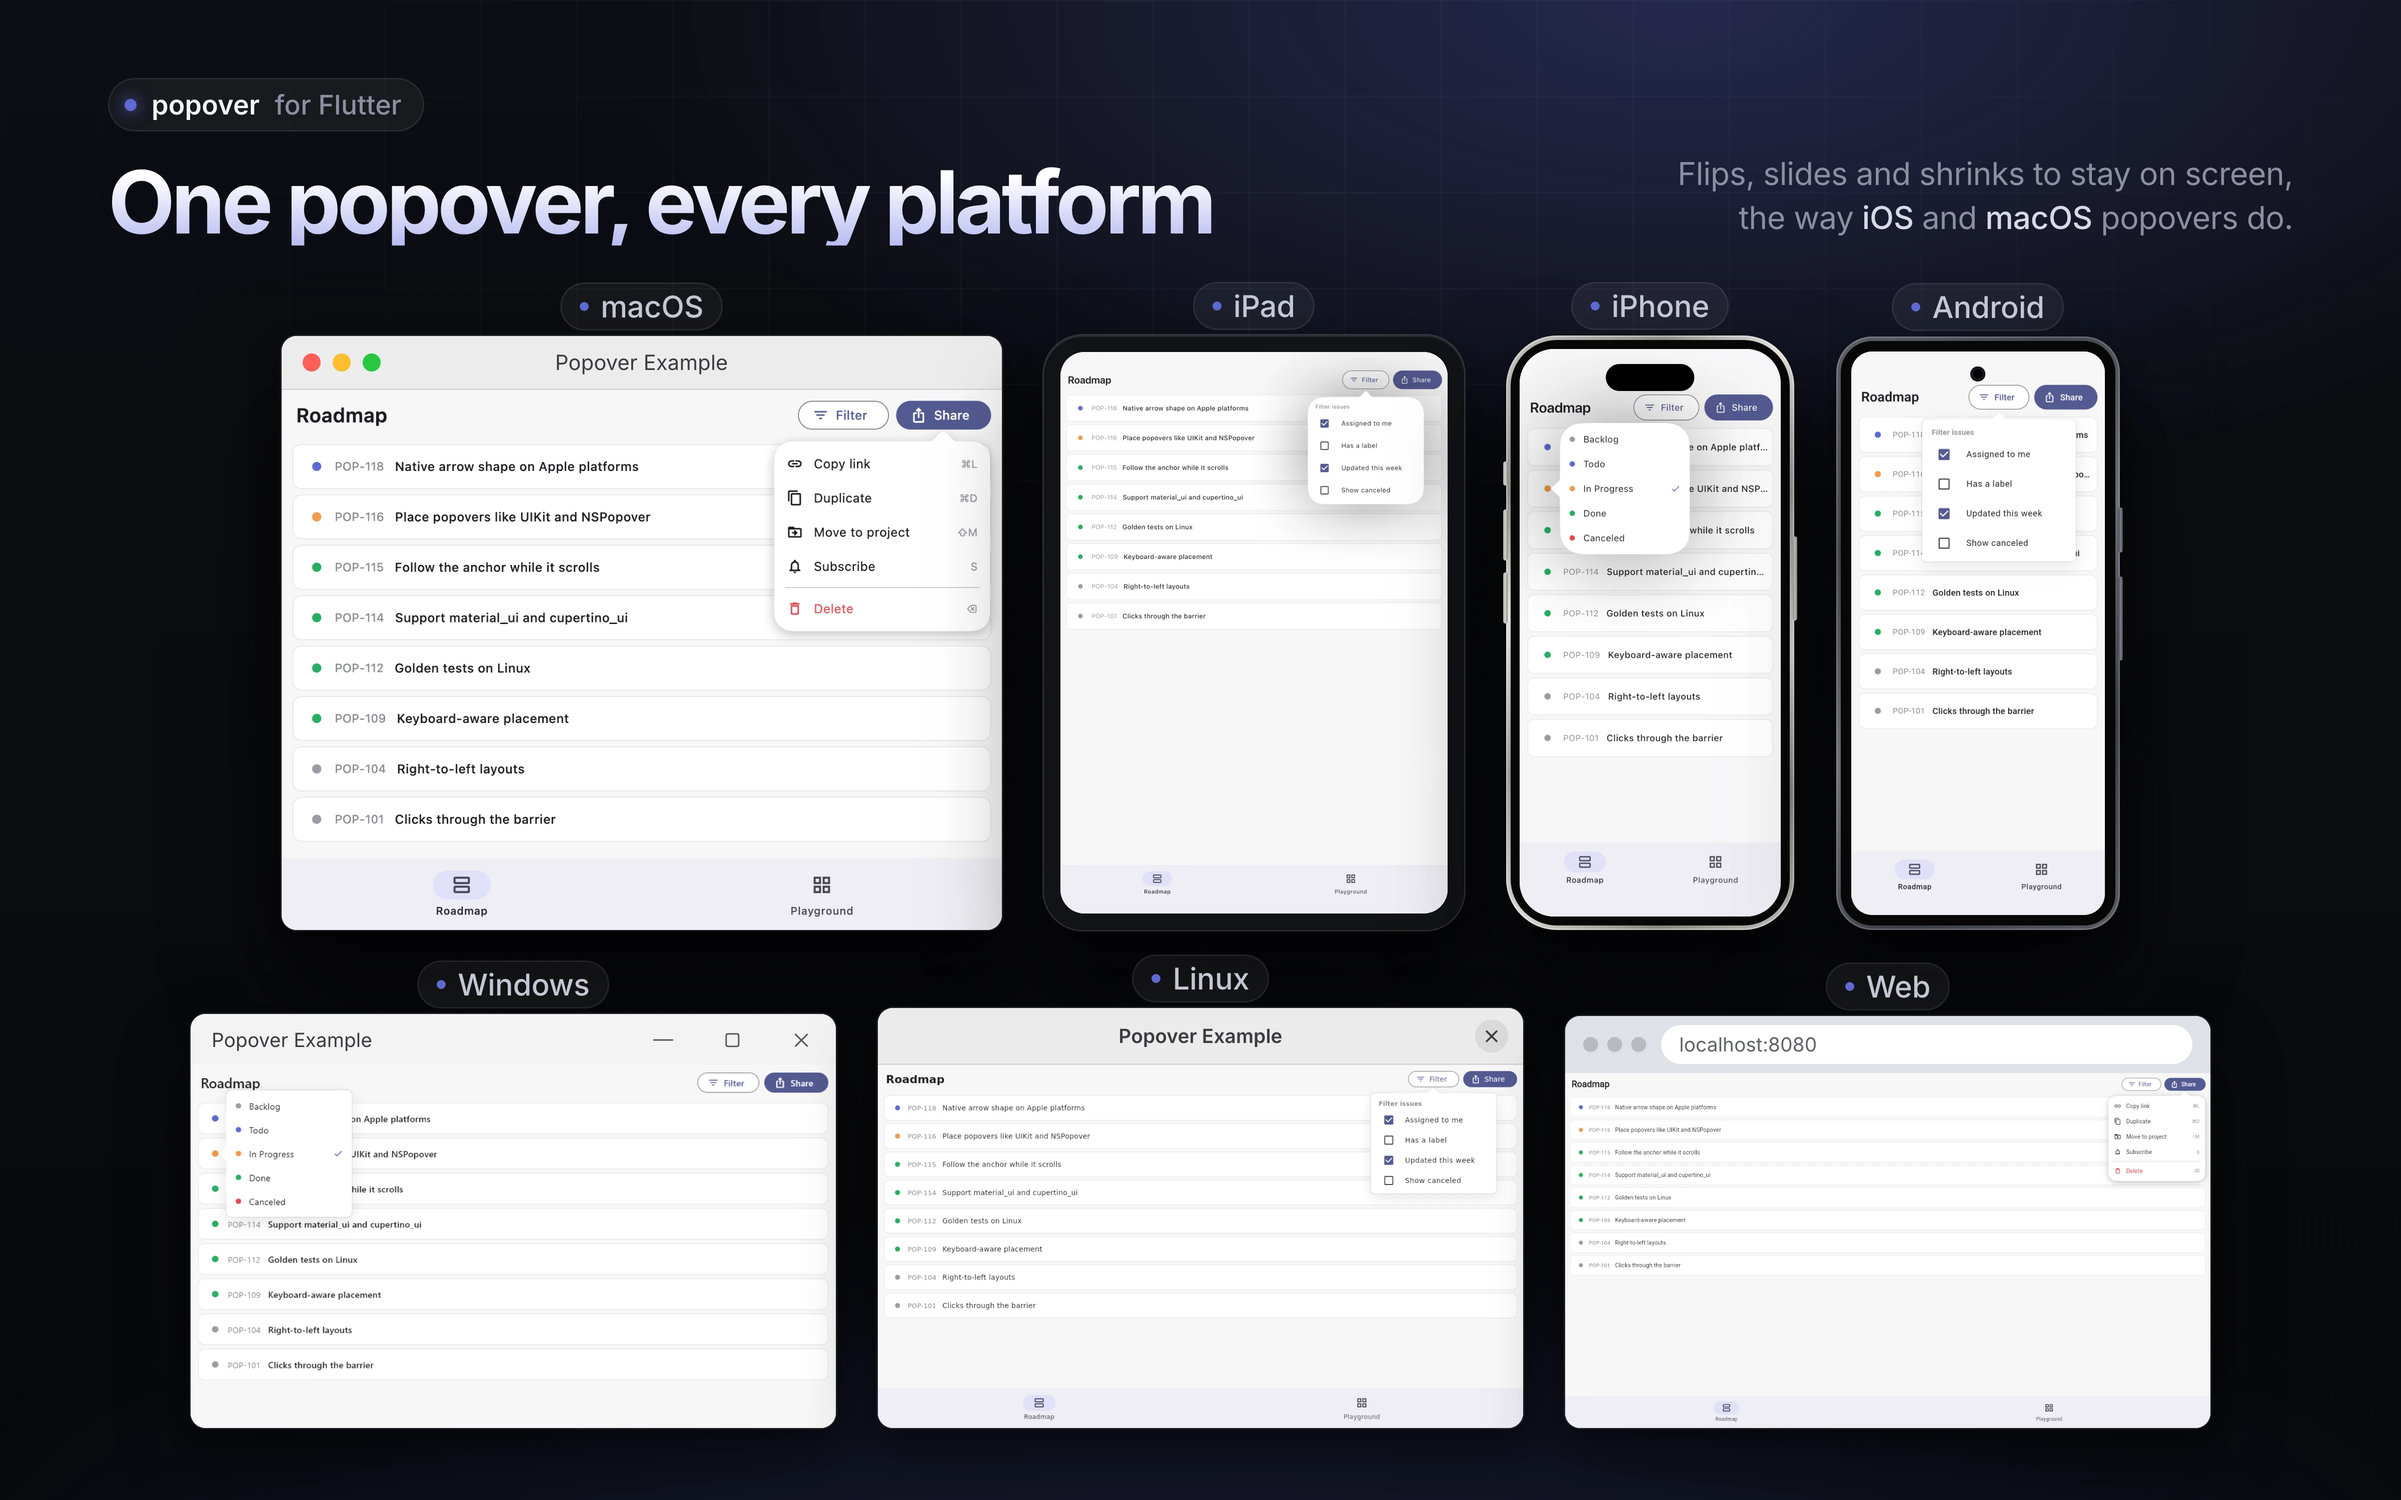
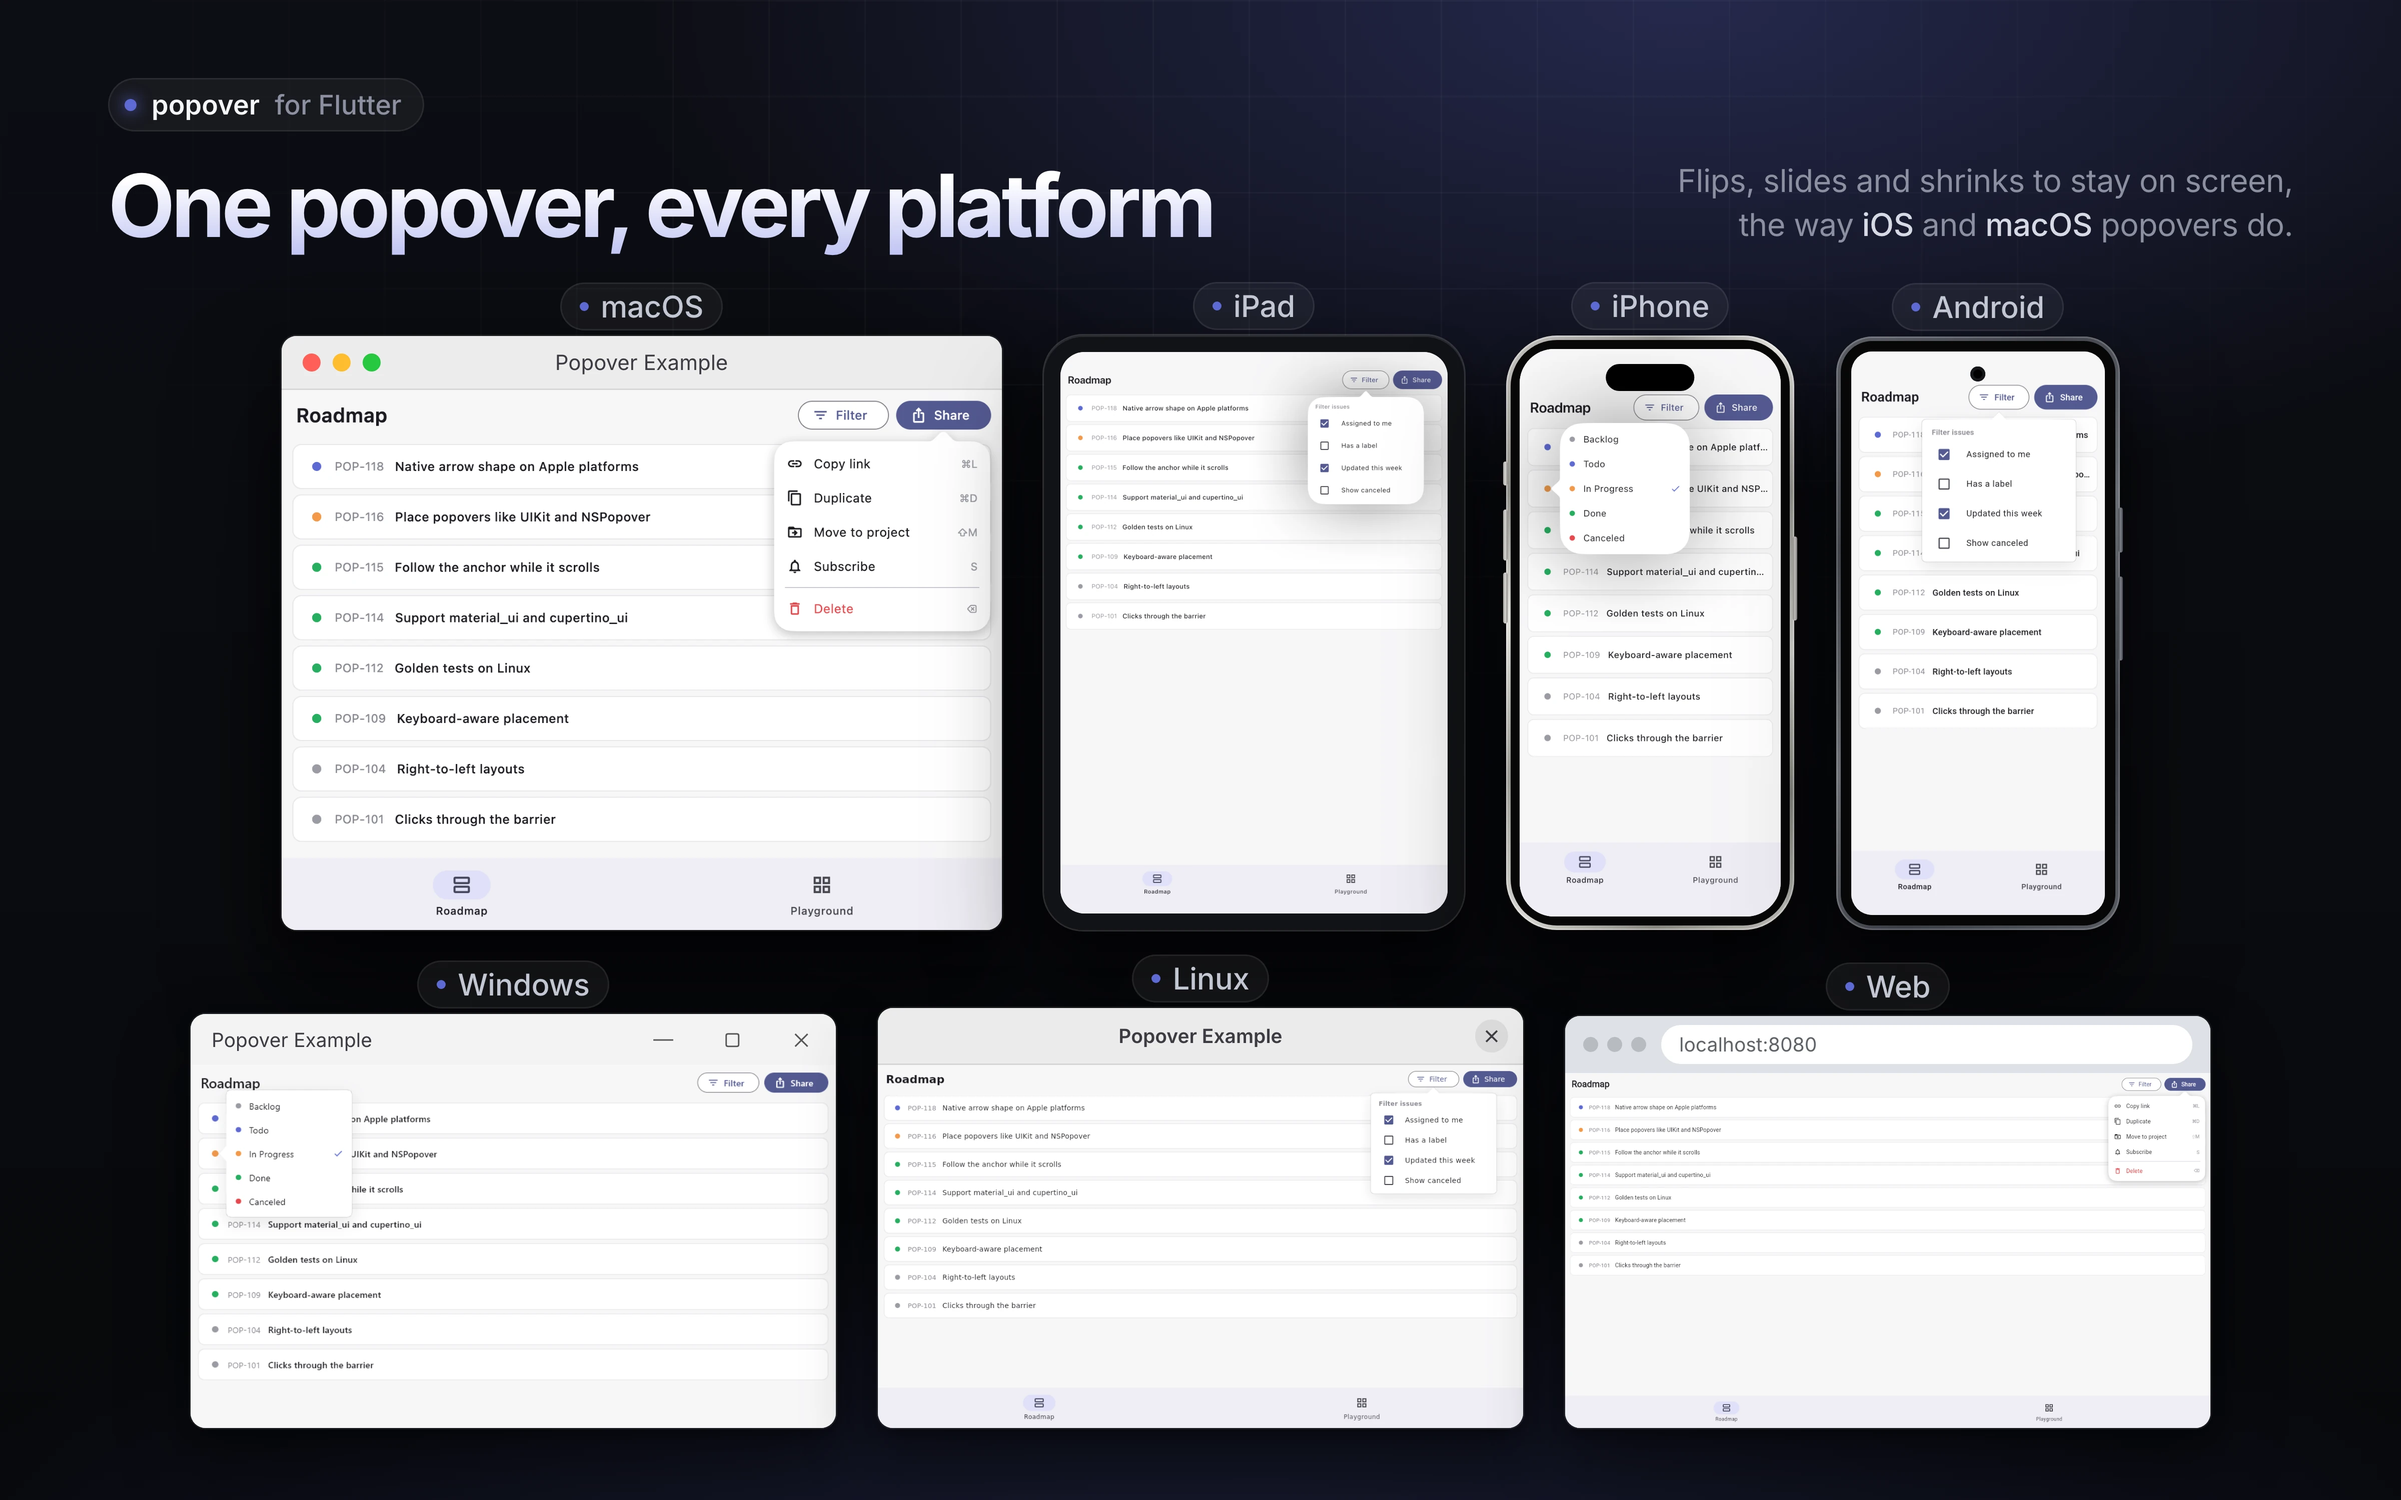
fix(demo): Keep descenders of the headline

Changed region(s): [[0.7188, 0.093, 0.9688, 0.155], [0.0625, 0.124, 0.5, 0.186]]

diff --git a/tool/demo/index.html b/tool/demo/index.html
@@ -85,7 +85,7 @@
   .pill i { width: 8px; height: 8px; border-radius: 50%; background: var(--accent); box-shadow: 0 0 10px var(--accent); }
   .pill b { color: var(--text); font-weight: 600; }
   h1 {
-    margin-top: 18px; font-size: 58px; line-height: 1; font-weight: 700; letter-spacing: -0.045em; white-space: nowrap;
+    margin-top: 18px; margin-bottom: -0.14em; padding-bottom: 0.14em; font-size: 58px; line-height: 1.08; font-weight: 700; letter-spacing: -0.045em; white-space: nowrap;
     background: linear-gradient(180deg, var(--h1-top) 20%, var(--h1-bottom));
     -webkit-background-clip: text; background-clip: text; color: transparent;
   }
